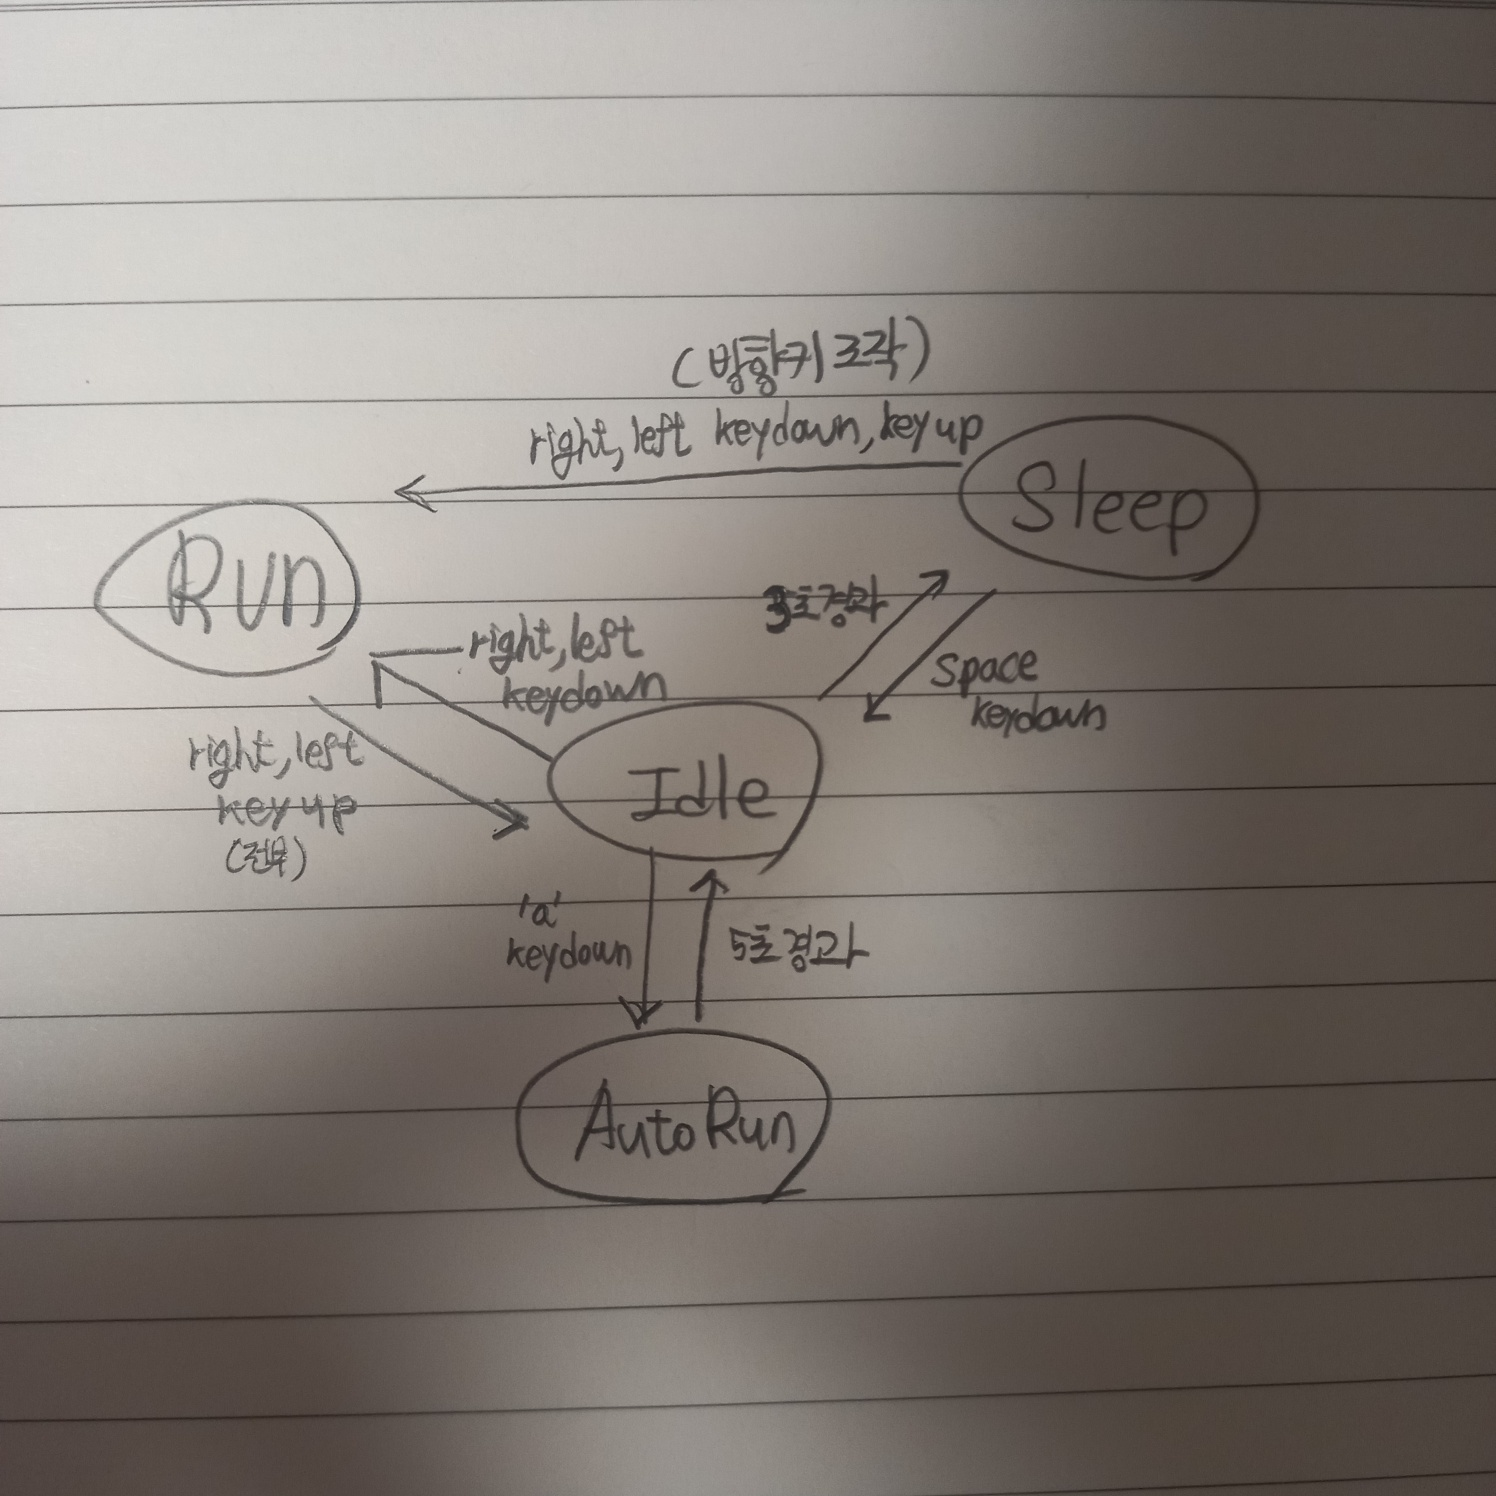
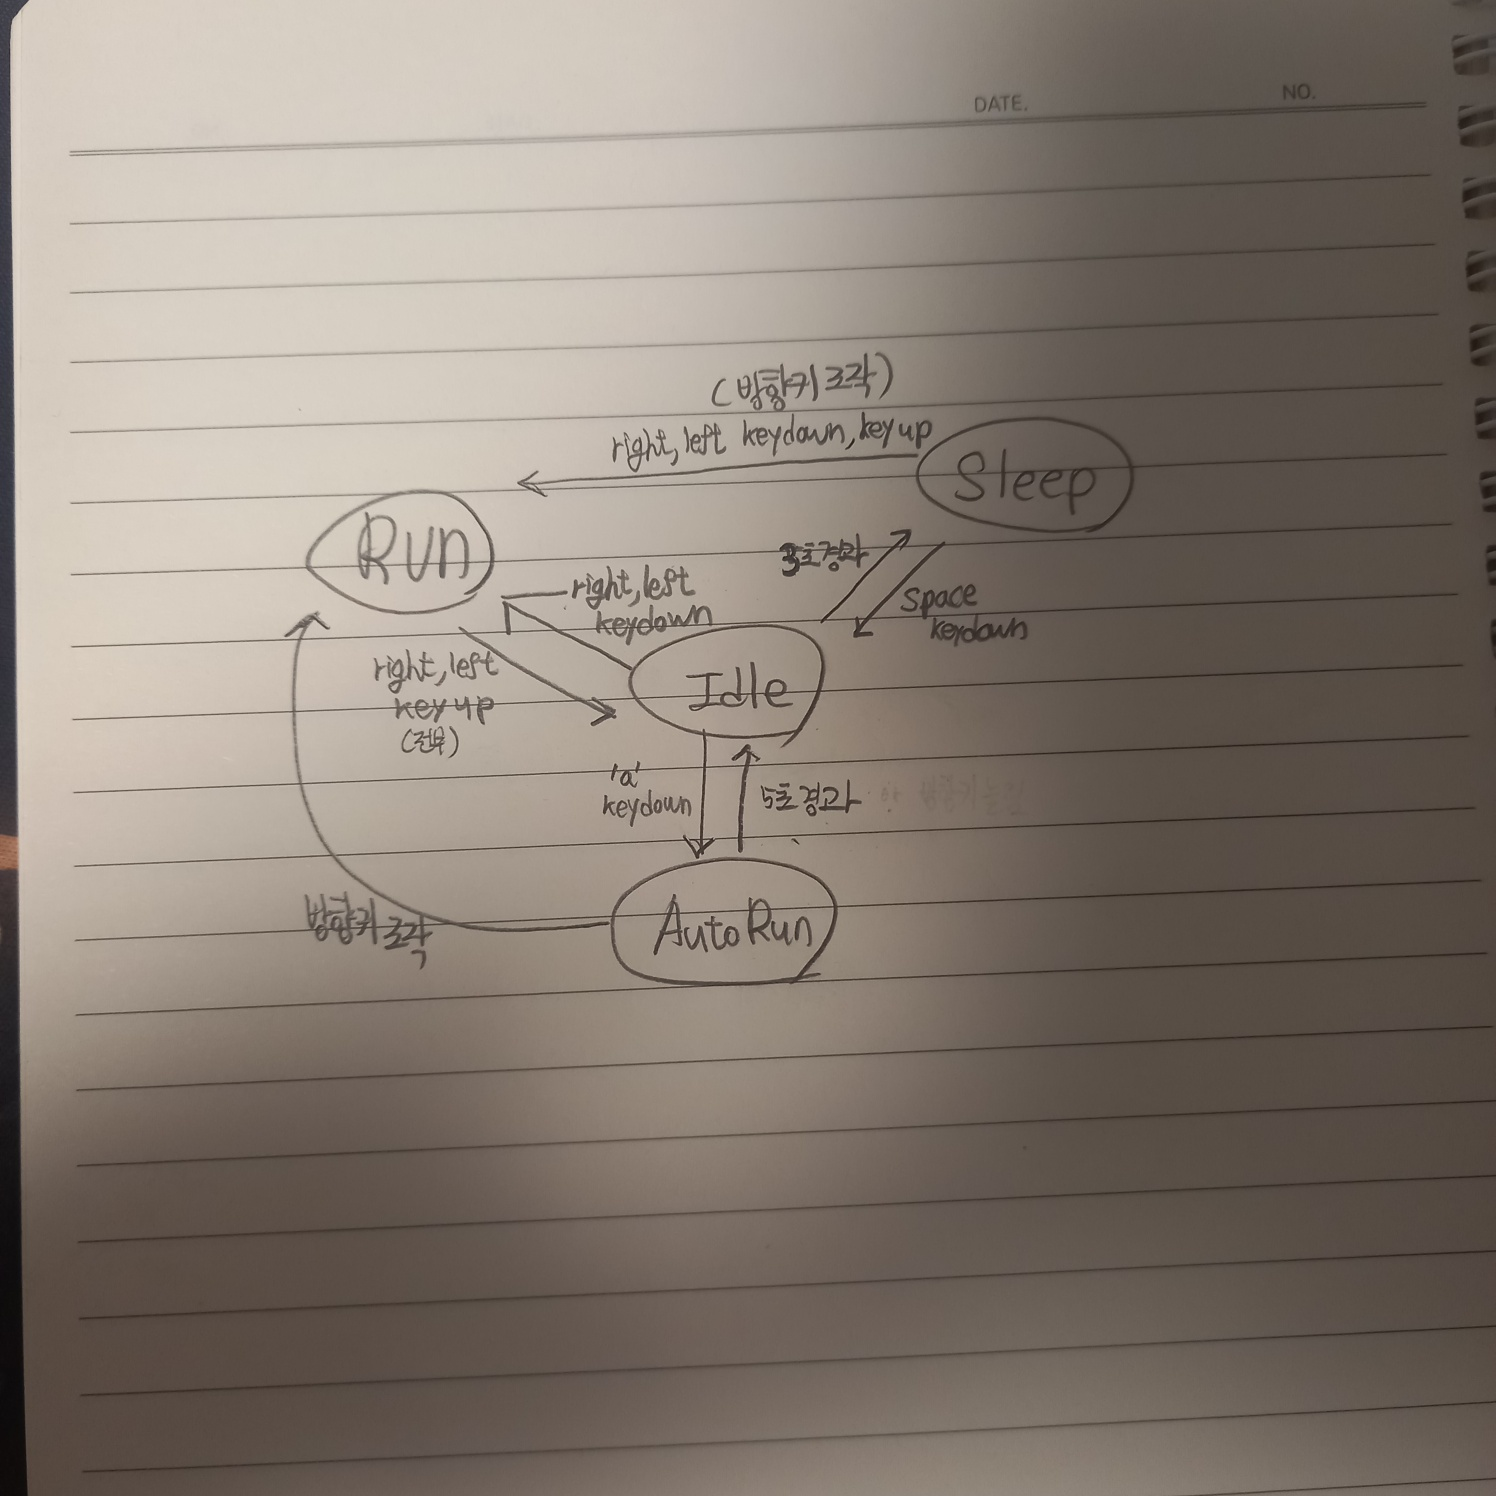
Drill09 제출 ( 2022184033 장준혁 )
공지 내용 추가

diff --git a/boy.py b/boy.py
@@ -139,7 +139,7 @@ class StateMachine:
             Sleep:{right_down : Run, left_down: Run, right_up:Run, left_up:Run, space_down:Idle},
             Idle:{right_down : Run, left_down : Run, left_up:Run, time_out:Sleep, keydown_a:AutoRun},
             Run:{right_down:Idle,left_down:Idle,right_up:Idle,left_up:Idle},
-            AutoRun:{time_out:Idle}
+            AutoRun:{time_out:Idle,right_down:Run,left_down:Run,right_up:Run,left_up:Run }
 
         }
         pass
